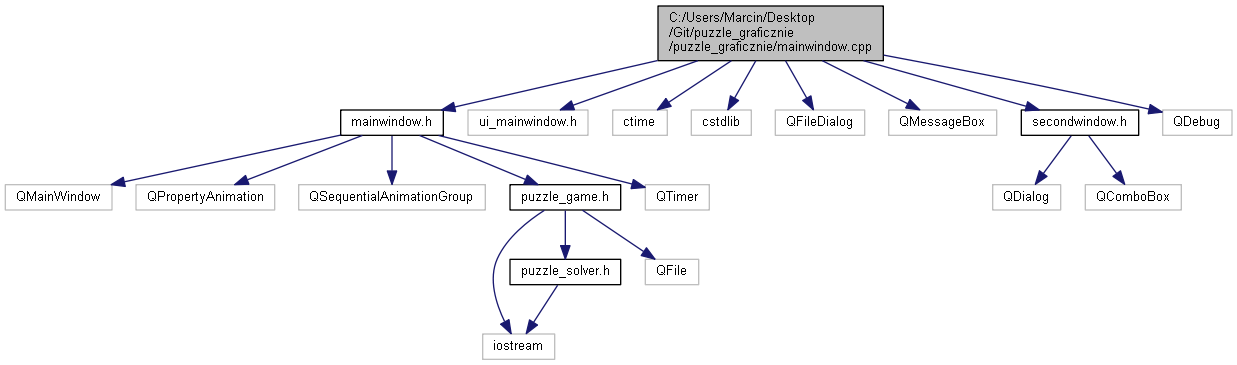
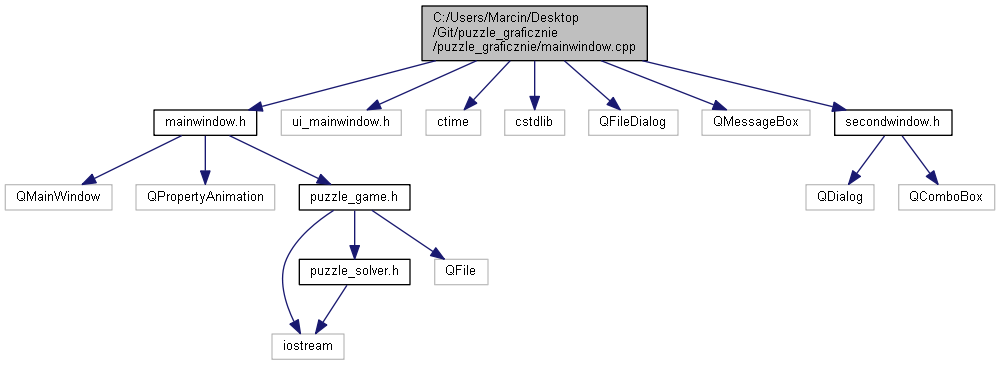
doxygen v1.1

diff --git a/Doxygen/html/mainwindow_8h_source.html b/Doxygen/html/mainwindow_8h_source.html
@@ -69,14 +69,14 @@ $(function() {
 <div class="title">mainwindow.h</div>  </div>
 </div><!--header-->
 <div class="contents">
-<a href="mainwindow_8h.html">Idź do dokumentacji tego pliku.</a><div class="fragment"><div class="line"><a name="l00001"></a><span class="lineno">    1</span>&#160;</div><div class="line"><a name="l00012"></a><span class="lineno">   12</span>&#160;<span class="preprocessor">#ifndef MAINWINDOW_H</span></div><div class="line"><a name="l00013"></a><span class="lineno">   13</span>&#160;<span class="preprocessor">#define MAINWINDOW_H</span></div><div class="line"><a name="l00014"></a><span class="lineno">   14</span>&#160;</div><div class="line"><a name="l00015"></a><span class="lineno">   15</span>&#160;</div><div class="line"><a name="l00016"></a><span class="lineno">   16</span>&#160;<span class="preprocessor">#include &lt;QMainWindow&gt;</span></div><div class="line"><a name="l00017"></a><span class="lineno">   17</span>&#160;<span class="preprocessor">#include &lt;QPropertyAnimation&gt;</span></div><div class="line"><a name="l00018"></a><span class="lineno">   18</span>&#160;<span class="preprocessor">#include &lt;QSequentialAnimationGroup&gt;</span></div><div class="line"><a name="l00019"></a><span class="lineno">   19</span>&#160;<span class="preprocessor">#include &lt;<a class="code" href="puzzle__game_8h.html">puzzle_game.h</a>&gt;</span></div><div class="line"><a name="l00020"></a><span class="lineno">   20</span>&#160;<span class="preprocessor">#include &lt;QTimer&gt;</span></div><div class="line"><a name="l00021"></a><span class="lineno">   21</span>&#160;</div><div class="line"><a name="l00022"></a><span class="lineno"><a class="line" href="namespace_ui.html">   22</a></span>&#160;<span class="keyword">namespace </span><a class="code" href="namespace_ui.html">Ui</a> {</div><div class="line"><a name="l00023"></a><span class="lineno">   23</span>&#160;<span class="keyword">class </span><a class="code" href="class_main_window.html">MainWindow</a>;</div><div class="line"><a name="l00024"></a><span class="lineno">   24</span>&#160;}</div><div class="line"><a name="l00025"></a><span class="lineno">   25</span>&#160;</div><div class="line"><a name="l00030"></a><span class="lineno"><a class="line" href="class_main_window.html">   30</a></span>&#160;<span class="keyword">class </span><a class="code" href="class_main_window.html">MainWindow</a> : <span class="keyword">public</span> QMainWindow</div><div class="line"><a name="l00031"></a><span class="lineno">   31</span>&#160;{</div><div class="line"><a name="l00032"></a><span class="lineno">   32</span>&#160;    Q_OBJECT</div><div class="line"><a name="l00033"></a><span class="lineno">   33</span>&#160;    </div><div class="line"><a name="l00034"></a><span class="lineno">   34</span>&#160;<span class="keyword">public</span>:</div><div class="line"><a name="l00035"></a><span class="lineno">   35</span>&#160;    <span class="keyword">explicit</span> <a class="code" href="class_main_window.html#a8b244be8b7b7db1b08de2a2acb9409db">MainWindow</a>(QWidget *parent = 0);</div><div class="line"><a name="l00036"></a><span class="lineno">   36</span>&#160;    <a class="code" href="class_main_window.html#ae98d00a93bc118200eeef9f9bba1dba7">~MainWindow</a>();</div><div class="line"><a name="l00051"></a><span class="lineno">   51</span>&#160;    <span class="keywordtype">void</span> <a class="code" href="class_main_window.html#a6ec9e3b5fd96b51d5443db1e487e106e">load_to_game</a>(<span class="keywordtype">int</span> p1,<span class="keywordtype">int</span> p2,<span class="keywordtype">int</span> p3,<span class="keywordtype">int</span> p4,<span class="keywordtype">int</span> p5,<span class="keywordtype">int</span> p6,<span class="keywordtype">int</span> p7,<span class="keywordtype">int</span> p8,<span class="keywordtype">int</span> p9);</div><div class="line"><a name="l00057"></a><span class="lineno">   57</span>&#160;    <span class="keywordtype">void</span> <a class="code" href="class_main_window.html#accb1da99c4e5bf0100716be7538835b6">set_buttons</a>();</div><div class="line"><a name="l00063"></a><span class="lineno">   63</span>&#160;    <span class="keywordtype">void</span> <a class="code" href="class_main_window.html#a154f2832e1b1fc824dcf85ed289650d2">move</a>(<span class="keywordtype">int</span> liczba);</div><div class="line"><a name="l00064"></a><span class="lineno">   64</span>&#160;    </div><div class="line"><a name="l00065"></a><span class="lineno">   65</span>&#160;<span class="keyword">private</span> slots:</div><div class="line"><a name="l00066"></a><span class="lineno">   66</span>&#160;</div><div class="line"><a name="l00068"></a><span class="lineno">   68</span>&#160;    <span class="keywordtype">void</span> on_pole_1_clicked();</div><div class="line"><a name="l00070"></a><span class="lineno">   70</span>&#160;    <span class="keywordtype">void</span> on_pole_2_clicked();</div><div class="line"><a name="l00072"></a><span class="lineno">   72</span>&#160;    <span class="keywordtype">void</span> on_pole_3_clicked();</div><div class="line"><a name="l00074"></a><span class="lineno">   74</span>&#160;    <span class="keywordtype">void</span> on_pole_4_clicked();</div><div class="line"><a name="l00076"></a><span class="lineno">   76</span>&#160;    <span class="keywordtype">void</span> on_pole_5_clicked();</div><div class="line"><a name="l00078"></a><span class="lineno">   78</span>&#160;    <span class="keywordtype">void</span> on_pole_6_clicked();</div><div class="line"><a name="l00080"></a><span class="lineno">   80</span>&#160;    <span class="keywordtype">void</span> on_pole_7_clicked();</div><div class="line"><a name="l00082"></a><span class="lineno">   82</span>&#160;    <span class="keywordtype">void</span> on_pole_8_clicked();</div><div class="line"><a name="l00087"></a><span class="lineno">   87</span>&#160;    <span class="keywordtype">void</span> on_przycisk_hint_clicked();</div><div class="line"><a name="l00092"></a><span class="lineno">   92</span>&#160;    <span class="keywordtype">void</span> on_przycisk_solve_clicked();</div><div class="line"><a name="l00097"></a><span class="lineno">   97</span>&#160;    <span class="keywordtype">void</span> on_randomize_clicked();</div><div class="line"><a name="l00098"></a><span class="lineno">   98</span>&#160;</div><div class="line"><a name="l00104"></a><span class="lineno">  104</span>&#160;    <span class="keywordtype">void</span> on_actionZapisz_rozwi_zanie_triggered();</div><div class="line"><a name="l00109"></a><span class="lineno">  109</span>&#160;    <span class="keywordtype">void</span> on_actionWczytaj_gr_triggered();</div><div class="line"><a name="l00111"></a><span class="lineno">  111</span>&#160;    <span class="keywordtype">void</span> on_actionExit_triggered();</div><div class="line"><a name="l00112"></a><span class="lineno">  112</span>&#160;</div><div class="line"><a name="l00113"></a><span class="lineno">  113</span>&#160;<span class="keyword">private</span>:</div><div class="line"><a name="l00114"></a><span class="lineno">  114</span>&#160;    Ui::MainWindow *ui;</div><div class="line"><a name="l00116"></a><span class="lineno">  116</span>&#160;    <a class="code" href="classgra.html">gra</a> game;</div><div class="line"><a name="l00118"></a><span class="lineno">  118</span>&#160;    <span class="keywordtype">int</span> x0;</div><div class="line"><a name="l00120"></a><span class="lineno">  120</span>&#160;    <span class="keywordtype">int</span> y0;</div><div class="line"><a name="l00122"></a><span class="lineno">  122</span>&#160;    <span class="keywordtype">int</span> size_icon;</div><div class="line"><a name="l00124"></a><span class="lineno">  124</span>&#160;    <span class="keywordtype">int</span> size_game;</div><div class="line"><a name="l00126"></a><span class="lineno">  126</span>&#160;    QPropertyAnimation **a_pole;</div><div class="line"><a name="l00127"></a><span class="lineno">  127</span>&#160;</div><div class="line"><a name="l00128"></a><span class="lineno">  128</span>&#160;</div><div class="line"><a name="l00129"></a><span class="lineno">  129</span>&#160;</div><div class="line"><a name="l00130"></a><span class="lineno">  130</span>&#160;</div><div class="line"><a name="l00131"></a><span class="lineno">  131</span>&#160;</div><div class="line"><a name="l00132"></a><span class="lineno">  132</span>&#160;};</div><div class="line"><a name="l00133"></a><span class="lineno">  133</span>&#160;</div><div class="line"><a name="l00134"></a><span class="lineno">  134</span>&#160;<span class="preprocessor">#endif // MAINWINDOW_H</span></div><div class="ttc" id="namespace_ui_html"><div class="ttname"><a href="namespace_ui.html">Ui</a></div><div class="ttdef"><b>Definition:</b> mainwindow.h:22</div></div>
+<a href="mainwindow_8h.html">Idź do dokumentacji tego pliku.</a><div class="fragment"><div class="line"><a name="l00001"></a><span class="lineno">    1</span>&#160;</div><div class="line"><a name="l00012"></a><span class="lineno">   12</span>&#160;<span class="preprocessor">#ifndef MAINWINDOW_H</span></div><div class="line"><a name="l00013"></a><span class="lineno">   13</span>&#160;<span class="preprocessor">#define MAINWINDOW_H</span></div><div class="line"><a name="l00014"></a><span class="lineno">   14</span>&#160;</div><div class="line"><a name="l00015"></a><span class="lineno">   15</span>&#160;</div><div class="line"><a name="l00016"></a><span class="lineno">   16</span>&#160;<span class="preprocessor">#include &lt;QMainWindow&gt;</span></div><div class="line"><a name="l00017"></a><span class="lineno">   17</span>&#160;<span class="preprocessor">#include &lt;QPropertyAnimation&gt;</span></div><div class="line"><a name="l00018"></a><span class="lineno">   18</span>&#160;<span class="preprocessor">#include &lt;<a class="code" href="puzzle__game_8h.html">puzzle_game.h</a>&gt;</span></div><div class="line"><a name="l00019"></a><span class="lineno">   19</span>&#160;</div><div class="line"><a name="l00020"></a><span class="lineno">   20</span>&#160;</div><div class="line"><a name="l00021"></a><span class="lineno"><a class="line" href="namespace_ui.html">   21</a></span>&#160;<span class="keyword">namespace </span><a class="code" href="namespace_ui.html">Ui</a> {</div><div class="line"><a name="l00022"></a><span class="lineno">   22</span>&#160;<span class="keyword">class </span><a class="code" href="class_main_window.html">MainWindow</a>;</div><div class="line"><a name="l00023"></a><span class="lineno">   23</span>&#160;}</div><div class="line"><a name="l00024"></a><span class="lineno">   24</span>&#160;</div><div class="line"><a name="l00029"></a><span class="lineno"><a class="line" href="class_main_window.html">   29</a></span>&#160;<span class="keyword">class </span><a class="code" href="class_main_window.html">MainWindow</a> : <span class="keyword">public</span> QMainWindow</div><div class="line"><a name="l00030"></a><span class="lineno">   30</span>&#160;{</div><div class="line"><a name="l00031"></a><span class="lineno">   31</span>&#160;    Q_OBJECT</div><div class="line"><a name="l00032"></a><span class="lineno">   32</span>&#160;    </div><div class="line"><a name="l00033"></a><span class="lineno">   33</span>&#160;<span class="keyword">public</span>:</div><div class="line"><a name="l00034"></a><span class="lineno">   34</span>&#160;    <span class="keyword">explicit</span> <a class="code" href="class_main_window.html#a8b244be8b7b7db1b08de2a2acb9409db">MainWindow</a>(QWidget *parent = 0);</div><div class="line"><a name="l00035"></a><span class="lineno">   35</span>&#160;    <a class="code" href="class_main_window.html#ae98d00a93bc118200eeef9f9bba1dba7">~MainWindow</a>();</div><div class="line"><a name="l00050"></a><span class="lineno">   50</span>&#160;    <span class="keywordtype">void</span> <a class="code" href="class_main_window.html#a6ec9e3b5fd96b51d5443db1e487e106e">load_to_game</a>(<span class="keywordtype">int</span> p1,<span class="keywordtype">int</span> p2,<span class="keywordtype">int</span> p3,<span class="keywordtype">int</span> p4,<span class="keywordtype">int</span> p5,<span class="keywordtype">int</span> p6,<span class="keywordtype">int</span> p7,<span class="keywordtype">int</span> p8,<span class="keywordtype">int</span> p9);</div><div class="line"><a name="l00056"></a><span class="lineno">   56</span>&#160;    <span class="keywordtype">void</span> <a class="code" href="class_main_window.html#accb1da99c4e5bf0100716be7538835b6">set_buttons</a>();</div><div class="line"><a name="l00062"></a><span class="lineno">   62</span>&#160;    <span class="keywordtype">void</span> <a class="code" href="class_main_window.html#a154f2832e1b1fc824dcf85ed289650d2">move</a>(<span class="keywordtype">int</span> liczba);</div><div class="line"><a name="l00063"></a><span class="lineno">   63</span>&#160;    </div><div class="line"><a name="l00064"></a><span class="lineno">   64</span>&#160;<span class="keyword">private</span> slots:</div><div class="line"><a name="l00065"></a><span class="lineno">   65</span>&#160;</div><div class="line"><a name="l00067"></a><span class="lineno">   67</span>&#160;    <span class="keywordtype">void</span> on_pole_1_clicked();</div><div class="line"><a name="l00069"></a><span class="lineno">   69</span>&#160;    <span class="keywordtype">void</span> on_pole_2_clicked();</div><div class="line"><a name="l00071"></a><span class="lineno">   71</span>&#160;    <span class="keywordtype">void</span> on_pole_3_clicked();</div><div class="line"><a name="l00073"></a><span class="lineno">   73</span>&#160;    <span class="keywordtype">void</span> on_pole_4_clicked();</div><div class="line"><a name="l00075"></a><span class="lineno">   75</span>&#160;    <span class="keywordtype">void</span> on_pole_5_clicked();</div><div class="line"><a name="l00077"></a><span class="lineno">   77</span>&#160;    <span class="keywordtype">void</span> on_pole_6_clicked();</div><div class="line"><a name="l00079"></a><span class="lineno">   79</span>&#160;    <span class="keywordtype">void</span> on_pole_7_clicked();</div><div class="line"><a name="l00081"></a><span class="lineno">   81</span>&#160;    <span class="keywordtype">void</span> on_pole_8_clicked();</div><div class="line"><a name="l00086"></a><span class="lineno">   86</span>&#160;    <span class="keywordtype">void</span> on_przycisk_hint_clicked();</div><div class="line"><a name="l00091"></a><span class="lineno">   91</span>&#160;    <span class="keywordtype">void</span> on_przycisk_solve_clicked();</div><div class="line"><a name="l00096"></a><span class="lineno">   96</span>&#160;    <span class="keywordtype">void</span> on_randomize_clicked();</div><div class="line"><a name="l00097"></a><span class="lineno">   97</span>&#160;</div><div class="line"><a name="l00103"></a><span class="lineno">  103</span>&#160;    <span class="keywordtype">void</span> on_actionZapisz_rozwi_zanie_triggered();</div><div class="line"><a name="l00108"></a><span class="lineno">  108</span>&#160;    <span class="keywordtype">void</span> on_actionWczytaj_gr_triggered();</div><div class="line"><a name="l00110"></a><span class="lineno">  110</span>&#160;    <span class="keywordtype">void</span> on_actionExit_triggered();</div><div class="line"><a name="l00111"></a><span class="lineno">  111</span>&#160;</div><div class="line"><a name="l00112"></a><span class="lineno">  112</span>&#160;<span class="keyword">private</span>:</div><div class="line"><a name="l00113"></a><span class="lineno">  113</span>&#160;    Ui::MainWindow *ui;</div><div class="line"><a name="l00115"></a><span class="lineno">  115</span>&#160;    <a class="code" href="classgra.html">gra</a> game;</div><div class="line"><a name="l00117"></a><span class="lineno">  117</span>&#160;    <span class="keywordtype">int</span> x0;</div><div class="line"><a name="l00119"></a><span class="lineno">  119</span>&#160;    <span class="keywordtype">int</span> y0;</div><div class="line"><a name="l00121"></a><span class="lineno">  121</span>&#160;    <span class="keywordtype">int</span> size_icon;</div><div class="line"><a name="l00123"></a><span class="lineno">  123</span>&#160;    <span class="keywordtype">int</span> size_game;</div><div class="line"><a name="l00125"></a><span class="lineno">  125</span>&#160;    QPropertyAnimation **a_pole;</div><div class="line"><a name="l00126"></a><span class="lineno">  126</span>&#160;</div><div class="line"><a name="l00127"></a><span class="lineno">  127</span>&#160;</div><div class="line"><a name="l00128"></a><span class="lineno">  128</span>&#160;</div><div class="line"><a name="l00129"></a><span class="lineno">  129</span>&#160;</div><div class="line"><a name="l00130"></a><span class="lineno">  130</span>&#160;</div><div class="line"><a name="l00131"></a><span class="lineno">  131</span>&#160;};</div><div class="line"><a name="l00132"></a><span class="lineno">  132</span>&#160;</div><div class="line"><a name="l00133"></a><span class="lineno">  133</span>&#160;<span class="preprocessor">#endif // MAINWINDOW_H</span></div><div class="ttc" id="namespace_ui_html"><div class="ttname"><a href="namespace_ui.html">Ui</a></div><div class="ttdef"><b>Definition:</b> mainwindow.h:21</div></div>
 <div class="ttc" id="class_main_window_html_ae98d00a93bc118200eeef9f9bba1dba7"><div class="ttname"><a href="class_main_window.html#ae98d00a93bc118200eeef9f9bba1dba7">MainWindow::~MainWindow</a></div><div class="ttdeci">~MainWindow()</div><div class="ttdef"><b>Definition:</b> mainwindow.cpp:60</div></div>
 <div class="ttc" id="class_main_window_html_a6ec9e3b5fd96b51d5443db1e487e106e"><div class="ttname"><a href="class_main_window.html#a6ec9e3b5fd96b51d5443db1e487e106e">MainWindow::load_to_game</a></div><div class="ttdeci">void load_to_game(int p1, int p2, int p3, int p4, int p5, int p6, int p7, int p8, int p9)</div><div class="ttdoc">load_to_game Funkcja ładująca grę zadana przez uzytkownika</div><div class="ttdef"><b>Definition:</b> mainwindow.cpp:69</div></div>
 <div class="ttc" id="classgra_html"><div class="ttname"><a href="classgra.html">gra</a></div><div class="ttdoc">The gra class klasa gra odpowiada za gre 8-puzzle.</div><div class="ttdef"><b>Definition:</b> puzzle_game.h:24</div></div>
 <div class="ttc" id="class_main_window_html_accb1da99c4e5bf0100716be7538835b6"><div class="ttname"><a href="class_main_window.html#accb1da99c4e5bf0100716be7538835b6">MainWindow::set_buttons</a></div><div class="ttdeci">void set_buttons()</div><div class="ttdoc">set_buttons Funkcja ustawiająca przyciski</div><div class="ttdef"><b>Definition:</b> mainwindow.cpp:110</div></div>
 <div class="ttc" id="class_main_window_html_a8b244be8b7b7db1b08de2a2acb9409db"><div class="ttname"><a href="class_main_window.html#a8b244be8b7b7db1b08de2a2acb9409db">MainWindow::MainWindow</a></div><div class="ttdeci">MainWindow(QWidget *parent=0)</div><div class="ttdef"><b>Definition:</b> mainwindow.cpp:21</div></div>
 <div class="ttc" id="class_main_window_html_a154f2832e1b1fc824dcf85ed289650d2"><div class="ttname"><a href="class_main_window.html#a154f2832e1b1fc824dcf85ed289650d2">MainWindow::move</a></div><div class="ttdeci">void move(int liczba)</div><div class="ttdoc">move Funkcja wykonywująca ruch gracza w grze</div><div class="ttdef"><b>Definition:</b> mainwindow.cpp:138</div></div>
-<div class="ttc" id="class_main_window_html"><div class="ttname"><a href="class_main_window.html">MainWindow</a></div><div class="ttdoc">The MainWindow class klasa odpowiedzialna za interfejs graficzny.</div><div class="ttdef"><b>Definition:</b> mainwindow.h:30</div></div>
+<div class="ttc" id="class_main_window_html"><div class="ttname"><a href="class_main_window.html">MainWindow</a></div><div class="ttdoc">The MainWindow class klasa odpowiedzialna za interfejs graficzny.</div><div class="ttdef"><b>Definition:</b> mainwindow.h:29</div></div>
 <div class="ttc" id="puzzle__game_8h_html"><div class="ttname"><a href="puzzle__game_8h.html">puzzle_game.h</a></div><div class="ttdoc">Plik nagłówkowy modułu puzzle_game.</div></div>
 </div><!-- fragment --></div><!-- contents -->
 <!-- start footer part -->

diff --git a/Doxygen/html/secondwindow_8h_source.html b/Doxygen/html/secondwindow_8h_source.html
@@ -70,7 +70,7 @@ $(function() {
 </div><!--header-->
 <div class="contents">
 <a href="secondwindow_8h.html">Idź do dokumentacji tego pliku.</a><div class="fragment"><div class="line"><a name="l00001"></a><span class="lineno">    1</span>&#160;</div><div class="line"><a name="l00012"></a><span class="lineno">   12</span>&#160;<span class="preprocessor">#ifndef SECONDWINDOW_H</span></div><div class="line"><a name="l00013"></a><span class="lineno">   13</span>&#160;<span class="preprocessor">#define SECONDWINDOW_H</span></div><div class="line"><a name="l00014"></a><span class="lineno">   14</span>&#160;</div><div class="line"><a name="l00015"></a><span class="lineno">   15</span>&#160;<span class="preprocessor">#include &lt;QDialog&gt;</span></div><div class="line"><a name="l00016"></a><span class="lineno">   16</span>&#160;<span class="preprocessor">#include &lt;QComboBox&gt;</span></div><div class="line"><a name="l00017"></a><span class="lineno">   17</span>&#160;</div><div class="line"><a name="l00018"></a><span class="lineno">   18</span>&#160;<span class="keyword">namespace </span><a class="code" href="namespace_ui.html">Ui</a> {</div><div class="line"><a name="l00019"></a><span class="lineno">   19</span>&#160;<span class="keyword">class </span><a class="code" href="classsecondwindow.html">secondwindow</a>;</div><div class="line"><a name="l00020"></a><span class="lineno">   20</span>&#160;}</div><div class="line"><a name="l00021"></a><span class="lineno">   21</span>&#160;</div><div class="line"><a name="l00022"></a><span class="lineno"><a class="line" href="classsecondwindow.html">   22</a></span>&#160;<span class="keyword">class </span><a class="code" href="classsecondwindow.html">secondwindow</a> : <span class="keyword">public</span> QDialog</div><div class="line"><a name="l00023"></a><span class="lineno">   23</span>&#160;{</div><div class="line"><a name="l00024"></a><span class="lineno">   24</span>&#160;    Q_OBJECT</div><div class="line"><a name="l00025"></a><span class="lineno">   25</span>&#160;</div><div class="line"><a name="l00026"></a><span class="lineno">   26</span>&#160;<span class="keyword">public</span>:</div><div class="line"><a name="l00027"></a><span class="lineno">   27</span>&#160;    <span class="keyword">explicit</span> <a class="code" href="classsecondwindow.html#ad0917f3eed2f3fbfdd7930c65994a3ef">secondwindow</a>(QWidget *parent = <span class="keyword">nullptr</span>);</div><div class="line"><a name="l00028"></a><span class="lineno">   28</span>&#160;    <a class="code" href="classsecondwindow.html#a403186ed8d8a228ad564846525aa7f3f">~secondwindow</a>();</div><div class="line"><a name="l00033"></a><span class="lineno">   33</span>&#160;    <span class="keywordtype">bool</span> <a class="code" href="classsecondwindow.html#ae6649ea354e6506c8ce0bc1137185ce4">get_zmiana</a>()<span class="keyword">const</span>;</div><div class="line"><a name="l00035"></a><span class="lineno">   35</span>&#160;    <span class="keywordtype">int</span> <a class="code" href="classsecondwindow.html#af586796952f8dc8f62065208c69ace02">get_pole1</a>();</div><div class="line"><a name="l00037"></a><span class="lineno">   37</span>&#160;    <span class="keywordtype">int</span> <a class="code" href="classsecondwindow.html#a2bd6c64d6e0604e70deed9c15f11ee2e">get_pole2</a>();</div><div class="line"><a name="l00039"></a><span class="lineno">   39</span>&#160;    <span class="keywordtype">int</span> <a class="code" href="classsecondwindow.html#af1724e0a3a3c6b145eb0f2b73c0141f9">get_pole3</a>();</div><div class="line"><a name="l00041"></a><span class="lineno">   41</span>&#160;    <span class="keywordtype">int</span> <a class="code" href="classsecondwindow.html#a5ce0fb892b658d74606a8e6544976d8b">get_pole4</a>();</div><div class="line"><a name="l00043"></a><span class="lineno">   43</span>&#160;    <span class="keywordtype">int</span> <a class="code" href="classsecondwindow.html#aa78fa12e746d8ebded589340ab614b75">get_pole5</a>();</div><div class="line"><a name="l00045"></a><span class="lineno">   45</span>&#160;    <span class="keywordtype">int</span> <a class="code" href="classsecondwindow.html#a43dca0caa96e3eb97953948568e40147">get_pole6</a>();</div><div class="line"><a name="l00047"></a><span class="lineno">   47</span>&#160;    <span class="keywordtype">int</span> <a class="code" href="classsecondwindow.html#ae09cf6cdeb8d7b4a019cdb628dca1809">get_pole7</a>();</div><div class="line"><a name="l00049"></a><span class="lineno">   49</span>&#160;    <span class="keywordtype">int</span> <a class="code" href="classsecondwindow.html#a39e2b27615a5c862bcdb0c06d2140e64">get_pole8</a>();</div><div class="line"><a name="l00051"></a><span class="lineno">   51</span>&#160;    <span class="keywordtype">int</span> <a class="code" href="classsecondwindow.html#af2d1df51dfb54079c2ae30aed47dd2e8">get_pole9</a>();</div><div class="line"><a name="l00052"></a><span class="lineno">   52</span>&#160;</div><div class="line"><a name="l00053"></a><span class="lineno">   53</span>&#160;</div><div class="line"><a name="l00054"></a><span class="lineno">   54</span>&#160;</div><div class="line"><a name="l00055"></a><span class="lineno">   55</span>&#160;<span class="keyword">private</span> slots:</div><div class="line"><a name="l00056"></a><span class="lineno">   56</span>&#160;</div><div class="line"><a name="l00057"></a><span class="lineno">   57</span>&#160;</div><div class="line"><a name="l00058"></a><span class="lineno">   58</span>&#160;    <span class="keywordtype">void</span> on_Wczytaj_clicked();</div><div class="line"><a name="l00059"></a><span class="lineno">   59</span>&#160;</div><div class="line"><a name="l00060"></a><span class="lineno">   60</span>&#160;    <span class="keywordtype">void</span> on_Anuluj_clicked();</div><div class="line"><a name="l00061"></a><span class="lineno">   61</span>&#160;</div><div class="line"><a name="l00062"></a><span class="lineno">   62</span>&#160;<span class="keyword">private</span>:</div><div class="line"><a name="l00063"></a><span class="lineno">   63</span>&#160;    Ui::secondwindow *ui;</div><div class="line"><a name="l00064"></a><span class="lineno">   64</span>&#160;    <span class="keywordtype">bool</span> zmiana;</div><div class="line"><a name="l00065"></a><span class="lineno">   65</span>&#160;    <span class="keywordtype">int</span> pole1;</div><div class="line"><a name="l00066"></a><span class="lineno">   66</span>&#160;    <span class="keywordtype">int</span> pole2;</div><div class="line"><a name="l00067"></a><span class="lineno">   67</span>&#160;    <span class="keywordtype">int</span> pole3;</div><div class="line"><a name="l00068"></a><span class="lineno">   68</span>&#160;    <span class="keywordtype">int</span> pole4;</div><div class="line"><a name="l00069"></a><span class="lineno">   69</span>&#160;    <span class="keywordtype">int</span> pole5;</div><div class="line"><a name="l00070"></a><span class="lineno">   70</span>&#160;    <span class="keywordtype">int</span> pole6;</div><div class="line"><a name="l00071"></a><span class="lineno">   71</span>&#160;    <span class="keywordtype">int</span> pole7;</div><div class="line"><a name="l00072"></a><span class="lineno">   72</span>&#160;    <span class="keywordtype">int</span> pole8;</div><div class="line"><a name="l00073"></a><span class="lineno">   73</span>&#160;    <span class="keywordtype">int</span> pole9;</div><div class="line"><a name="l00074"></a><span class="lineno">   74</span>&#160;</div><div class="line"><a name="l00075"></a><span class="lineno">   75</span>&#160;    <span class="keywordtype">void</span> wczytaj_liczby(QComboBox *);</div><div class="line"><a name="l00076"></a><span class="lineno">   76</span>&#160;    <span class="keywordtype">void</span> wczytaj_combo();</div><div class="line"><a name="l00077"></a><span class="lineno">   77</span>&#160;    <span class="keywordtype">int</span> string_to_int(QString);</div><div class="line"><a name="l00078"></a><span class="lineno">   78</span>&#160;</div><div class="line"><a name="l00079"></a><span class="lineno">   79</span>&#160;</div><div class="line"><a name="l00080"></a><span class="lineno">   80</span>&#160;};</div><div class="line"><a name="l00081"></a><span class="lineno">   81</span>&#160;</div><div class="line"><a name="l00082"></a><span class="lineno">   82</span>&#160;<span class="preprocessor">#endif // SECONDWINDOW_H</span></div><div class="ttc" id="classsecondwindow_html_ad0917f3eed2f3fbfdd7930c65994a3ef"><div class="ttname"><a href="classsecondwindow.html#ad0917f3eed2f3fbfdd7930c65994a3ef">secondwindow::secondwindow</a></div><div class="ttdeci">secondwindow(QWidget *parent=nullptr)</div><div class="ttdef"><b>Definition:</b> secondwindow.cpp:16</div></div>
-<div class="ttc" id="namespace_ui_html"><div class="ttname"><a href="namespace_ui.html">Ui</a></div><div class="ttdef"><b>Definition:</b> mainwindow.h:22</div></div>
+<div class="ttc" id="namespace_ui_html"><div class="ttname"><a href="namespace_ui.html">Ui</a></div><div class="ttdef"><b>Definition:</b> mainwindow.h:21</div></div>
 <div class="ttc" id="classsecondwindow_html_af586796952f8dc8f62065208c69ace02"><div class="ttname"><a href="classsecondwindow.html#af586796952f8dc8f62065208c69ace02">secondwindow::get_pole1</a></div><div class="ttdeci">int get_pole1()</div><div class="ttdoc">zwraca jaka liczba znajdywala się w polu 1</div><div class="ttdef"><b>Definition:</b> secondwindow.cpp:78</div></div>
 <div class="ttc" id="classsecondwindow_html"><div class="ttname"><a href="classsecondwindow.html">secondwindow</a></div><div class="ttdef"><b>Definition:</b> secondwindow.h:22</div></div>
 <div class="ttc" id="classsecondwindow_html_a5ce0fb892b658d74606a8e6544976d8b"><div class="ttname"><a href="classsecondwindow.html#a5ce0fb892b658d74606a8e6544976d8b">secondwindow::get_pole4</a></div><div class="ttdeci">int get_pole4()</div><div class="ttdoc">zwraca jaka liczba znajdywala się w polu 4</div><div class="ttdef"><b>Definition:</b> secondwindow.cpp:90</div></div>

diff --git a/Doxygen/html/mainwindow_8cpp.html b/Doxygen/html/mainwindow_8cpp.html
@@ -79,31 +79,27 @@ $(function() {
 <code>#include &lt;QFileDialog&gt;</code><br />
 <code>#include &lt;QMessageBox&gt;</code><br />
 <code>#include &lt;<a class="el" href="secondwindow_8h_source.html">secondwindow.h</a>&gt;</code><br />
-<code>#include &lt;QDebug&gt;</code><br />
 </div><div class="textblock"><div class="dynheader">
 Wykres zależności załączania dla mainwindow.cpp:</div>
 <div class="dyncontent">
 <div class="center"><img src="mainwindow_8cpp__incl.png" border="0" usemap="#_c_1_2_users_2_marcin_2_desktop_2_git_2puzzle__graficznie_2puzzle__graficznie_2mainwindow_8cpp" alt=""/></div>
 <map name="_c_1_2_users_2_marcin_2_desktop_2_git_2puzzle__graficznie_2puzzle__graficznie_2mainwindow_8cpp" id="_c_1_2_users_2_marcin_2_desktop_2_git_2puzzle__graficznie_2puzzle__graficznie_2mainwindow_8cpp">
-<area shape="rect"  title="Plik implementacji moduÅu mainwindow." alt="" coords="658,5,883,61"/>
-<area shape="rect"  href="mainwindow_8h.html" title="Plik implementacji moduÅu mainwindow." alt="" coords="341,109,443,136"/>
-<area shape="rect"  title=" " alt="" coords="468,109,588,136"/>
-<area shape="rect"  title=" " alt="" coords="613,109,667,136"/>
-<area shape="rect"  title=" " alt="" coords="691,109,751,136"/>
-<area shape="rect"  title=" " alt="" coords="775,109,865,136"/>
-<area shape="rect"  title=" " alt="" coords="889,109,997,136"/>
-<area shape="rect"  href="secondwindow_8h.html" title="Plik implementacji moduÅu mainwindow." alt="" coords="1021,109,1139,136"/>
-<area shape="rect"  title=" " alt="" coords="1163,109,1232,136"/>
+<area shape="rect"  title="Plik implementacji moduÅu mainwindow." alt="" coords="422,5,647,61"/>
+<area shape="rect"  href="mainwindow_8h.html" title="Plik implementacji moduÅu mainwindow." alt="" coords="154,109,257,136"/>
+<area shape="rect"  title=" " alt="" coords="281,109,401,136"/>
+<area shape="rect"  title=" " alt="" coords="426,109,481,136"/>
+<area shape="rect"  title=" " alt="" coords="505,109,565,136"/>
+<area shape="rect"  title=" " alt="" coords="589,109,678,136"/>
+<area shape="rect"  title=" " alt="" coords="702,109,810,136"/>
+<area shape="rect"  href="secondwindow_8h.html" title="Plik implementacji moduÅu mainwindow." alt="" coords="835,109,952,136"/>
 <area shape="rect"  title=" " alt="" coords="5,184,112,211"/>
 <area shape="rect"  title=" " alt="" coords="136,184,275,211"/>
-<area shape="rect"  title=" " alt="" coords="299,184,485,211"/>
-<area shape="rect"  href="puzzle__game_8h.html" title="Plik nagÅÃ³wkowy moduÅu puzzle_game." alt="" coords="510,184,621,211"/>
-<area shape="rect"  title=" " alt="" coords="645,184,709,211"/>
-<area shape="rect"  title=" " alt="" coords="483,333,555,360"/>
-<area shape="rect"  href="puzzle__solver_8h.html" title="Plik nagÅÃ³wkowy moduÅu puzzle_game." alt="" coords="510,259,621,285"/>
-<area shape="rect"  title=" " alt="" coords="645,259,699,285"/>
-<area shape="rect"  title=" " alt="" coords="993,184,1061,211"/>
-<area shape="rect"  title=" " alt="" coords="1085,184,1181,211"/>
+<area shape="rect"  href="puzzle__game_8h.html" title="Plik nagÅÃ³wkowy moduÅu puzzle_game." alt="" coords="299,184,410,211"/>
+<area shape="rect"  title=" " alt="" coords="272,333,344,360"/>
+<area shape="rect"  href="puzzle__solver_8h.html" title="Plik nagÅÃ³wkowy moduÅu puzzle_game." alt="" coords="299,259,410,285"/>
+<area shape="rect"  title=" " alt="" coords="435,259,488,285"/>
+<area shape="rect"  title=" " alt="" coords="806,184,874,211"/>
+<area shape="rect"  title=" " alt="" coords="899,184,995,211"/>
 </map>
 </div>
 </div><a name="details" id="details"></a><h2 class="groupheader">Opis szczegółowy</h2>

diff --git a/Doxygen/html/secondwindow_8cpp.html b/Doxygen/html/secondwindow_8cpp.html
@@ -80,20 +80,18 @@ Wykres zależności załączania dla secondwindow.cpp:</div>
 <div class="dyncontent">
 <div class="center"><img src="secondwindow_8cpp__incl.png" border="0" usemap="#_c_1_2_users_2_marcin_2_desktop_2_git_2puzzle__graficznie_2puzzle__graficznie_2secondwindow_8cpp" alt=""/></div>
 <map name="_c_1_2_users_2_marcin_2_desktop_2_git_2puzzle__graficznie_2puzzle__graficznie_2secondwindow_8cpp" id="_c_1_2_users_2_marcin_2_desktop_2_git_2puzzle__graficznie_2puzzle__graficznie_2secondwindow_8cpp">
-<area shape="rect"  title="Plik implementacji moduÅu mainwindow." alt="" coords="260,5,499,61"/>
-<area shape="rect"  href="secondwindow_8h.html" title="Plik implementacji moduÅu mainwindow." alt="" coords="87,109,205,136"/>
-<area shape="rect"  title=" " alt="" coords="312,109,447,136"/>
-<area shape="rect"  href="mainwindow_8h.html" title="Plik implementacji moduÅu mainwindow." alt="" coords="512,109,615,136"/>
+<area shape="rect"  title="Plik implementacji moduÅu mainwindow." alt="" coords="167,5,405,61"/>
+<area shape="rect"  href="secondwindow_8h.html" title="Plik implementacji moduÅu mainwindow." alt="" coords="77,109,194,136"/>
+<area shape="rect"  title=" " alt="" coords="219,109,353,136"/>
+<area shape="rect"  href="mainwindow_8h.html" title="Plik implementacji moduÅu mainwindow." alt="" coords="377,109,480,136"/>
 <area shape="rect"  title=" " alt="" coords="5,184,73,211"/>
 <area shape="rect"  title=" " alt="" coords="98,184,194,211"/>
-<area shape="rect"  title=" " alt="" coords="218,184,325,211"/>
-<area shape="rect"  title=" " alt="" coords="349,184,487,211"/>
-<area shape="rect"  title=" " alt="" coords="511,184,698,211"/>
-<area shape="rect"  href="puzzle__game_8h.html" title="Plik nagÅÃ³wkowy moduÅu puzzle_game." alt="" coords="723,184,833,211"/>
-<area shape="rect"  title=" " alt="" coords="858,184,922,211"/>
-<area shape="rect"  title=" " alt="" coords="695,333,767,360"/>
-<area shape="rect"  href="puzzle__solver_8h.html" title="Plik nagÅÃ³wkowy moduÅu puzzle_game." alt="" coords="723,259,833,285"/>
-<area shape="rect"  title=" " alt="" coords="858,259,911,285"/>
+<area shape="rect"  title=" " alt="" coords="229,184,335,211"/>
+<area shape="rect"  title=" " alt="" coords="359,184,498,211"/>
+<area shape="rect"  href="puzzle__game_8h.html" title="Plik nagÅÃ³wkowy moduÅu puzzle_game." alt="" coords="523,184,633,211"/>
+<area shape="rect"  title=" " alt="" coords="495,333,567,360"/>
+<area shape="rect"  href="puzzle__solver_8h.html" title="Plik nagÅÃ³wkowy moduÅu puzzle_game." alt="" coords="523,259,633,285"/>
+<area shape="rect"  title=" " alt="" coords="658,259,711,285"/>
 </map>
 </div>
 </div><a name="details" id="details"></a><h2 class="groupheader">Opis szczegółowy</h2>

diff --git a/Doxygen/html/mainwindow_8h.html b/Doxygen/html/mainwindow_8h.html
@@ -77,23 +77,19 @@ $(function() {
 <a href="#details">Więcej...</a></p>
 <div class="textblock"><code>#include &lt;QMainWindow&gt;</code><br />
 <code>#include &lt;QPropertyAnimation&gt;</code><br />
-<code>#include &lt;QSequentialAnimationGroup&gt;</code><br />
 <code>#include &lt;<a class="el" href="puzzle__game_8h_source.html">puzzle_game.h</a>&gt;</code><br />
-<code>#include &lt;QTimer&gt;</code><br />
 </div><div class="textblock"><div class="dynheader">
 Wykres zależności załączania dla mainwindow.h:</div>
 <div class="dyncontent">
 <div class="center"><img src="mainwindow_8h__incl.png" border="0" usemap="#_c_1_2_users_2_marcin_2_desktop_2_git_2puzzle__graficznie_2puzzle__graficznie_2mainwindow_8h" alt=""/></div>
 <map name="_c_1_2_users_2_marcin_2_desktop_2_git_2puzzle__graficznie_2puzzle__graficznie_2mainwindow_8h" id="_c_1_2_users_2_marcin_2_desktop_2_git_2puzzle__graficznie_2puzzle__graficznie_2mainwindow_8h">
-<area shape="rect"  title="Plik implementacji moduÅu mainwindow." alt="" coords="287,5,497,61"/>
+<area shape="rect"  title="Plik implementacji moduÅu mainwindow." alt="" coords="100,5,311,61"/>
 <area shape="rect"  title=" " alt="" coords="5,109,112,136"/>
 <area shape="rect"  title=" " alt="" coords="136,109,275,136"/>
-<area shape="rect"  title=" " alt="" coords="299,109,485,136"/>
-<area shape="rect"  href="puzzle__game_8h.html" title="Plik nagÅÃ³wkowy moduÅu puzzle_game." alt="" coords="510,109,621,136"/>
-<area shape="rect"  title=" " alt="" coords="645,109,709,136"/>
-<area shape="rect"  title=" " alt="" coords="483,259,555,285"/>
-<area shape="rect"  href="puzzle__solver_8h.html" title="Plik nagÅÃ³wkowy moduÅu puzzle_game." alt="" coords="510,184,621,211"/>
-<area shape="rect"  title=" " alt="" coords="645,184,699,211"/>
+<area shape="rect"  href="puzzle__game_8h.html" title="Plik nagÅÃ³wkowy moduÅu puzzle_game." alt="" coords="299,109,410,136"/>
+<area shape="rect"  title=" " alt="" coords="272,259,344,285"/>
+<area shape="rect"  href="puzzle__solver_8h.html" title="Plik nagÅÃ³wkowy moduÅu puzzle_game." alt="" coords="299,184,410,211"/>
+<area shape="rect"  title=" " alt="" coords="435,184,488,211"/>
 </map>
 </div>
 </div><div class="textblock"><div class="dynheader">

diff --git a/Doxygen/html/main_8cpp.html b/Doxygen/html/main_8cpp.html
@@ -81,17 +81,15 @@ Wykres zależności załączania dla main.cpp:</div>
 <div class="dyncontent">
 <div class="center"><img src="main_8cpp__incl.png" border="0" usemap="#_c_1_2_users_2_marcin_2_desktop_2_git_2puzzle__graficznie_2puzzle__graficznie_2main_8cpp" alt=""/></div>
 <map name="_c_1_2_users_2_marcin_2_desktop_2_git_2puzzle__graficznie_2puzzle__graficznie_2main_8cpp" id="_c_1_2_users_2_marcin_2_desktop_2_git_2puzzle__graficznie_2puzzle__graficznie_2main_8cpp">
-<area shape="rect"  title="Plik z funkcjÄ main(int argc, char* argv[])" alt="" coords="362,5,545,61"/>
-<area shape="rect"  href="mainwindow_8h.html" title="Plik implementacji moduÅu mainwindow." alt="" coords="341,109,443,136"/>
-<area shape="rect"  title=" " alt="" coords="468,109,564,136"/>
+<area shape="rect"  title="Plik z funkcjÄ main(int argc, char* argv[])" alt="" coords="175,5,358,61"/>
+<area shape="rect"  href="mainwindow_8h.html" title="Plik implementacji moduÅu mainwindow." alt="" coords="154,109,257,136"/>
+<area shape="rect"  title=" " alt="" coords="281,109,377,136"/>
 <area shape="rect"  title=" " alt="" coords="5,184,112,211"/>
 <area shape="rect"  title=" " alt="" coords="136,184,275,211"/>
-<area shape="rect"  title=" " alt="" coords="299,184,485,211"/>
-<area shape="rect"  href="puzzle__game_8h.html" title="Plik nagÅÃ³wkowy moduÅu puzzle_game." alt="" coords="510,184,621,211"/>
-<area shape="rect"  title=" " alt="" coords="645,184,709,211"/>
-<area shape="rect"  title=" " alt="" coords="483,333,555,360"/>
-<area shape="rect"  href="puzzle__solver_8h.html" title="Plik nagÅÃ³wkowy moduÅu puzzle_game." alt="" coords="510,259,621,285"/>
-<area shape="rect"  title=" " alt="" coords="645,259,699,285"/>
+<area shape="rect"  href="puzzle__game_8h.html" title="Plik nagÅÃ³wkowy moduÅu puzzle_game." alt="" coords="299,184,410,211"/>
+<area shape="rect"  title=" " alt="" coords="272,333,344,360"/>
+<area shape="rect"  href="puzzle__solver_8h.html" title="Plik nagÅÃ³wkowy moduÅu puzzle_game." alt="" coords="299,259,410,285"/>
+<area shape="rect"  title=" " alt="" coords="435,259,488,285"/>
 </map>
 </div>
 </div><table class="memberdecls">

diff --git a/puzzle_graficznie/mainwindow.h b/puzzle_graficznie/mainwindow.h
@@ -15,9 +15,8 @@
 
 #include <QMainWindow>
 #include <QPropertyAnimation>
-#include <QSequentialAnimationGroup>
 #include <puzzle_game.h>
-#include <QTimer>
+
 
 namespace Ui {
 class MainWindow;

diff --git a/puzzle_graficznie/mainwindow.cpp b/puzzle_graficznie/mainwindow.cpp
@@ -15,7 +15,7 @@
 #include <QFileDialog>
 #include <QMessageBox>
 #include <secondwindow.h>
-#include <QDebug>
+
 
 
 MainWindow::MainWindow(QWidget *parent) :
